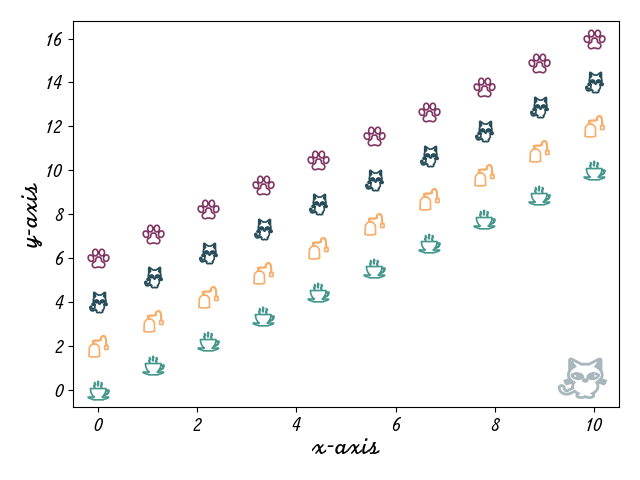
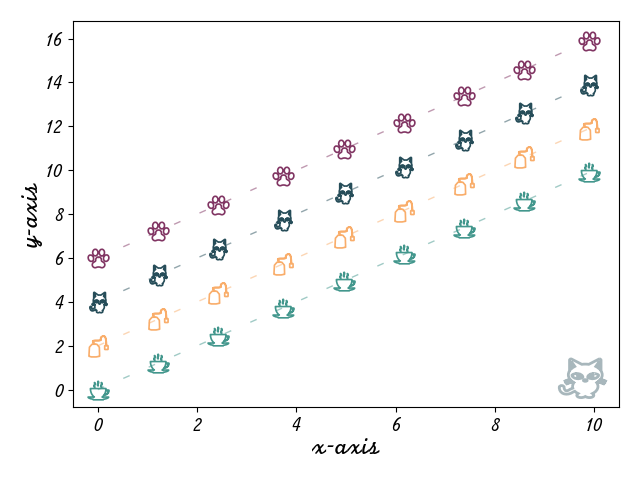
marevery dark magic + dashed lines by default

diff --git a/taraplotlib/__init__.py b/taraplotlib/__init__.py
@@ -3,6 +3,9 @@ __all__ = ['add_background'] # type: ignore
 from cycler import cycler
 from matplotlib import rcParams
 from matplotlib.font_manager import fontManager
+from matplotlib.colors import to_rgba
+
+from matplotlib.lines import Line2D
 
 from .src.colors import _add_colors_to_mpl
 from .src.markers import (
@@ -22,16 +25,22 @@ _add_markers_to_mpl()
 
 rcParams['axes.prop_cycle'] = cycler(
     color=[
-    '#43978D', 
-    '#F9AD6A',
-    '#264D59',
-    '#813563',
+    to_rgba('#43978D', 0.5),
+    to_rgba('#F9AD6A', 0.5),
+    to_rgba('#264D59', 0.5),
+    to_rgba('#813563', 0.5),
     ],
     marker = [
     'teacup',
     'teabag',
     'cat',
     'pawprint',
+    ],
+    markeredgecolor = [
+    '#43978D',
+    '#F9AD6A',
+    '#264D59',
+    '#813563',
     ])
 
 rcParams["axes.labelpad"] = 1.5
@@ -41,7 +50,8 @@ rcParams["axes.unicode_minus"] = False
 
 rcParams["lines.marker"] = 'teacup'
 rcParams["lines.markersize"] = 15
-rcParams["lines.linestyle"] = 'none'
+rcParams["lines.linestyle"] = (0, (5, 15))
+rcParams["lines.linewidth"] = 1
 rcParams["lines.markeredgewidth"] = 1.2
 rcParams["markers.fillstyle"] = 'none'
 
@@ -55,3 +65,27 @@ rcParams["axes.labelsize"] = 19
 
 rcParams['figure.autolayout'] = True
 rcParams['image.cmap'] = 'crime-yoga'
+
+## Set markevery for Line2D
+# This is a hack to set the default markevery
+# because it does not have an entry in rcParams
+
+def _set_markevery(self: Line2D, every):
+    if every is None:
+        every = 0.1
+    elif every == 'none':
+        every = None
+    self._markevery = every # type: ignore
+    self.stale = True
+    
+def _get_markevery(self: Line2D):
+    if self._markevery is not None and self.axes is None: # type: ignore
+        return None
+    return self._markevery # type: ignore
+    
+_set_markevery.__doc__ = Line2D.set_markevery.__doc__
+_get_markevery.__doc__ = Line2D.get_markevery.__doc__
+    
+Line2D.set_markevery = _set_markevery # type: ignore
+Line2D.get_markevery = _get_markevery # type: ignore
+    

diff --git a/taraplotlib/examples/single_line.py b/taraplotlib/examples/single_line.py
@@ -2,10 +2,11 @@ from matplotlib import pyplot as plt
 import numpy as np
 
 from pathlib import Path
+from matplotlib.colors import to_rgba
 
 from taraplotlib import *
 
-x = np.linspace(0, 10, 10)
+x = np.linspace(0, 10, 100)
 
 fig, ax = plt.subplots()
 
@@ -16,6 +17,6 @@ add_background(ax, 'cat')
 ax.set_xlabel('x-axis')
 ax.set_ylabel('y-axis')
 
-fig.savefig(Path(__file__).with_name( "single_line.png"))
+fig.savefig(Path(__file__).with_suffix( ".png"))
 
 plt.show()

diff --git a/taraplotlib/examples/simple_plot.py b/taraplotlib/examples/simple_plot.py
@@ -5,7 +5,7 @@ from pathlib import Path
 
 from taraplotlib import *
 
-x = np.linspace(0, 10, 10)
+x = np.linspace(0, 10, 100)
 y = np.ones_like(x)
 
 fig, ax = plt.subplots()
@@ -18,6 +18,6 @@ add_background(ax, 'cat')
 ax.set_xlabel('x-axis')
 ax.set_ylabel('y-axis')
 
-fig.savefig(Path(__file__).with_name( "simple_plot.png"))
+fig.savefig(Path(__file__).with_suffix( ".png"))
 
 plt.show()

diff --git a/taraplotlib/examples/colormaps.py b/taraplotlib/examples/colormaps.py
@@ -33,6 +33,6 @@ for ax, name in zip(axs, cmap_list):
             transform=ax.transAxes)
     ax.set_axis_off()
 
-fig.savefig(Path(__file__).with_name( "colormaps.png"))
+fig.savefig(Path(__file__).with_suffix( ".png"))
 
 plt.show()

diff --git a/taraplotlib/examples/2d_plot.py b/taraplotlib/examples/2d_plot.py
@@ -23,6 +23,6 @@ ax.set_ylabel('y-axis')
 
 plt.colorbar(im, ax=ax, label = 'z-axis')
 
-fig.savefig(Path(__file__).with_name( "2d_plot.png"))
+fig.savefig(Path(__file__).with_suffix( ".png"))
 
 plt.show()

diff --git a/README.md b/README.md
@@ -9,7 +9,7 @@ How did we do it? Let's see some examples!
 If we try to plot a line...
 
 ``` python
-x = np.linspace(0, 10, 10)
+x = np.linspace(0, 10, 100)
 
 fig, ax = plt.subplots()
 ax.plot(x, x)
@@ -28,23 +28,22 @@ I wonder what happens if I try to plot multiple lines...?
 
 More pastel colors! And more nice little silhouettes!  And we haven't even mentioned the cat in the background! That's a plot carrying one heck of a cosy vibe, right?
 
-And to the purists in the room that have noticed, yes, by default `tpl` plots (cute) _markers_, not _lines_. "But what if I have too many data points? Won't the plot get too crowded?", I hear you ask. And to you - you know who you are - I reply that the issue is that you have _too many_ data points. This is a __cosy__ plotting library, and you are working too hard! Stop producing so much data and go enjoy a cup of tea and maybe a movie!
+And to the purists in the room that have noticed, yes, by default `tpl` plots (cute) _markers_, with very faint _lines_. "But what if I have too many data points? Won't the plot get too crowded?", I hear you ask. And to you - you know who you are - I reply that no! With a little [matpllotlib dark magic](https://matplotlib.org/stable/gallery/lines_bars_and_markers/markevery_demo.html) we can make sure everything stays nice and cosy even with loads of data points. However, I can't but wonder _why_ you have _so many_ data points that you think this might be an issue. This is a __cosy__ plotting library, and you are working too hard by the sounds of it! Stop producing so much data and go enjoy a cup of tea and maybe a movie!
 
-However, if you still insist in having _so much_ data to be plotted, the usual `matplotlib` incantations are available to restore your precious lines.
-But please don't forget to 
+But before you go, please don't forget to
 
 ```python
 add_background(ax, 'cat')
 ```
 
-or your favorite between the available images (`cat`, `teacup`, `teabag`, `pawprint`), to save at least _some_ of the good vibes!
+or your favorite between the available images (`cat`, `teacup`, `teabag`, `pawprint`). You wouldn't want to miss on the cosy good vibes!
 
 Ok, now imagine that you have a 2D dataset to plot. Let's see what happens...
 
 ![2d_plot](taraplotlib/examples/2d_plot.png)
 > Full example available in `taraplotlib/examples/2d_plot.py`
 
-... what a cosy colormap! None of that harsh purple and yellow in `viridis`. 
+... what a cosy colormap! None of that harsh purple and yellow in `viridis`.
 
 But... does that mean `tpl` has it's own colormaps? Yes! Here they are in their full glory!
 
